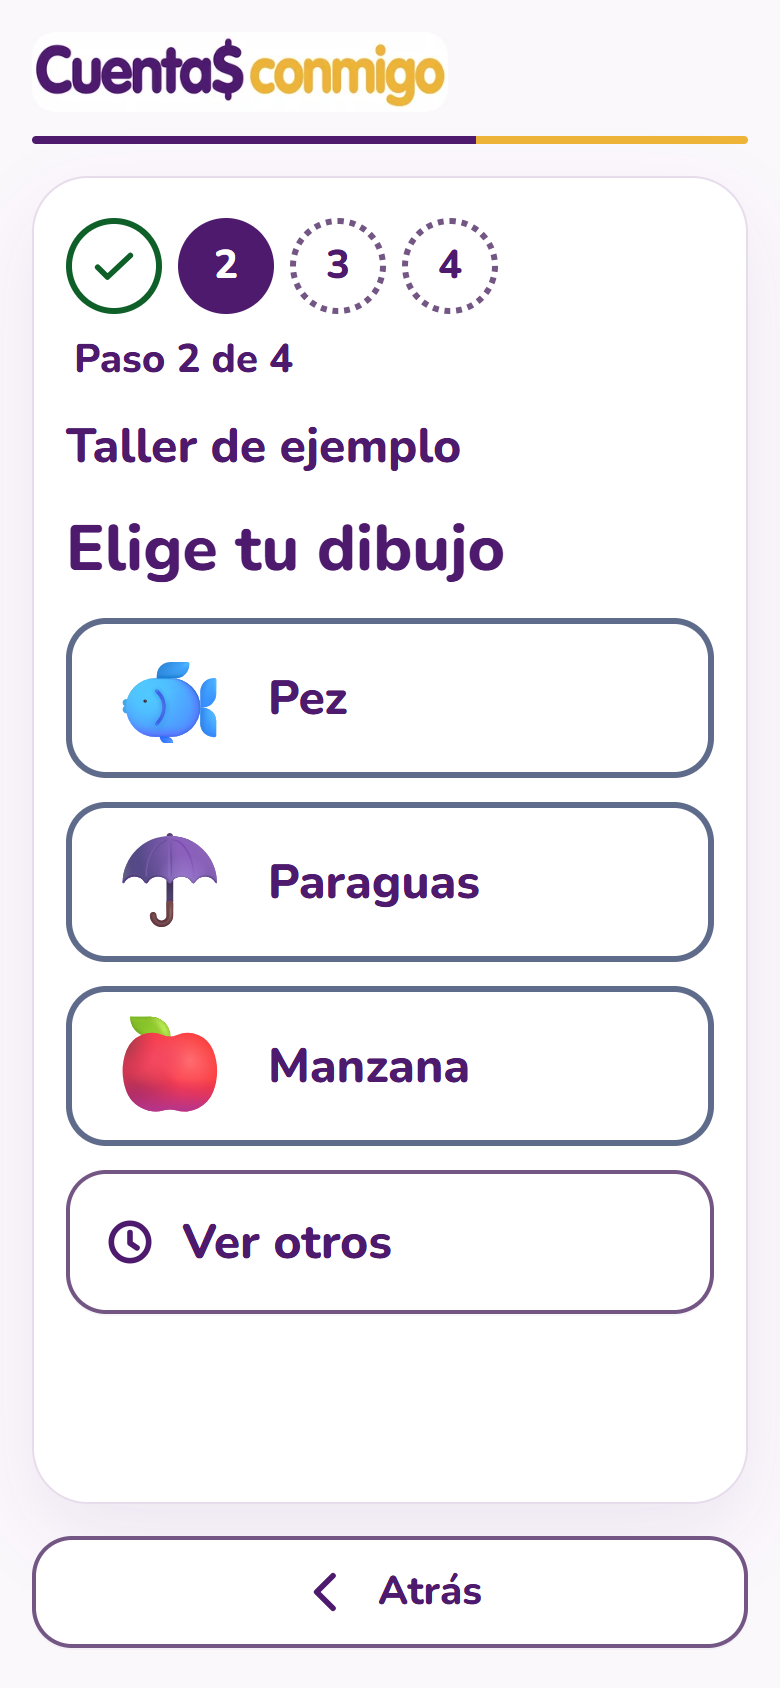
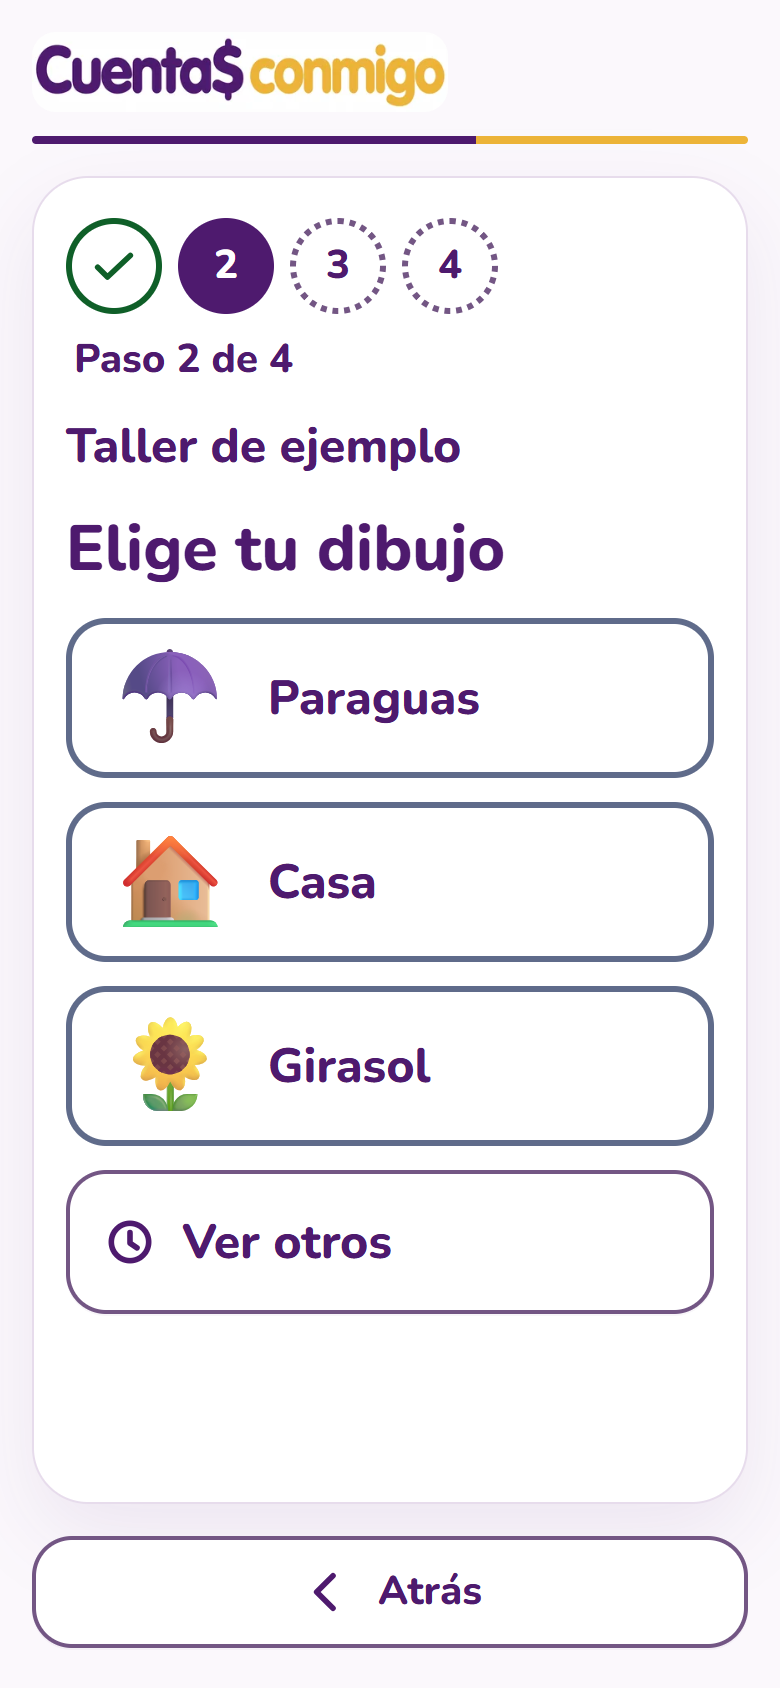
Inscripción paso 3: elegir cómo paga (yo desde mi celular o me ayuda un familiar); la ayuda es opcional

diff --git a/src/Inscripcion.tsx b/src/Inscripcion.tsx
@@ -29,7 +29,7 @@ export default function Inscripcion({ token, registerUrl, initial }: {
   token: string;
   registerUrl: string;
   /** Only for the demo harness (screenshots): start on a given step with sample values. */
-  initial?: { step: number; name?: string; tel?: string; helpers?: Helper[]; emblem?: string; pic?: 'menu' | 'pick' };
+  initial?: { pay?: 'self' | 'helper'; step: number; name?: string; tel?: string; helpers?: Helper[]; emblem?: string; pic?: 'menu' | 'pick' };
 }) {
   const [info, setInfo] = useState<Info | null>(null);
   const [step, setStep] = useState(initial?.step ?? 1);
@@ -37,6 +37,8 @@ export default function Inscripcion({ token, registerUrl, initial }: {
   const [tel, setTel] = useState(initial?.tel ?? '');
   const [helpers, setHelpers] = useState<Helper[]>(initial?.helpers ?? [{ name: '', rel: '', tel: '' }]);
   const [sendTo, setSendTo] = useState('');
+  // How the person pays: from their own phone with CoDi, or with a relative who helps. Help is optional.
+  const [payMode, setPayMode] = useState<'' | 'self' | 'helper'>(initial?.pay ?? (initial?.helpers?.some((h) => h.tel) ? 'helper' : ''));
   const [consent, setConsent] = useState(false);
   const [emblem, setEmblem] = useState(initial?.emblem ?? '');
   const [photo, setPhoto] = useState('');
@@ -84,11 +86,11 @@ export default function Inscripcion({ token, registerUrl, initial }: {
     }
   }
 
-  const cleanHelpers: Helper[] = helpers
+  const cleanHelpers: Helper[] = payMode !== 'helper' ? [] : helpers
     .map((h) => ({ name: h.name.trim().replace(/\s+/g, ' '), rel: h.rel.trim().replace(/\s+/g, ' '), tel: digits(h.tel) }))
     .filter((h) => h.name || h.rel || h.tel)
     .filter((h, i, all) => all.findIndex((x) => x.tel === h.tel) === i || !h.tel);
-  const sendTel = cleanHelpers.some((h) => h.tel === sendTo) || sendTo === digits(tel) ? sendTo : (cleanHelpers[0]?.tel ?? '');
+  const sendTel = cleanHelpers.some((h) => h.tel === sendTo) || sendTo === digits(tel) ? sendTo : (cleanHelpers[0]?.tel ?? digits(tel));
 
   function next(e?: FormEvent) {
     e?.preventDefault();
@@ -97,7 +99,8 @@ export default function Inscripcion({ token, registerUrl, initial }: {
       if (name.trim().length < 2) { setError('Escribe tu nombre.'); return; }
     } else if (step === 3) {
       if (digits(tel).length !== 10) { setError('Tu WhatsApp debe tener 10 números.'); return; }
-      if (!cleanHelpers.length) { setError('Escribe quién te ayuda a pagar.'); return; }
+      if (!payMode) { setError('Elige cómo vas a pagar.'); return; }
+      if (payMode === 'helper' && !cleanHelpers.length) { setError('Escribe quién te ayuda a pagar.'); return; }
       if (cleanHelpers.some((h) => h.name.length < 2)) { setError('Escribe el nombre de quien te ayuda.'); return; }
       if (cleanHelpers.some((h) => h.rel.length < 2)) { setError('Escribe qué es tuyo, por ejemplo: mi hija.'); return; }
       if (cleanHelpers.some((h) => h.tel.length !== 10)) { setError('Cada WhatsApp debe tener 10 números.'); return; }
@@ -262,19 +265,38 @@ export default function Inscripcion({ token, registerUrl, initial }: {
 
         {step === 3 ? (
           <form className="stack" onSubmit={next}>
-            <h1>Los WhatsApp</h1>
+            <h1>Tu WhatsApp</h1>
             <Field label="Tu WhatsApp (10 números)"><input value={tel} onChange={(e) => setTel(e.target.value)} inputMode="numeric" autoComplete="tel" required /></Field>
-            <p className="lead">¿Quién te ayuda a pagar?</p>
-            {helpers.map((h, i) => (
-              <div key={i} className="stack">
-                {helpers.length > 1 ? <p className="who-line">Persona {i + 1}</p> : null}
-                <Field label="Su nombre"><input value={h.name} onChange={(e) => setHelpers(helpers.map((x, j) => (j === i ? { ...x, name: e.target.value } : x)))} autoComplete="off" required={i === 0} /></Field>
-                <Field label="¿Qué es tuyo? (mi hija, mi vecino…)"><input value={h.rel} onChange={(e) => setHelpers(helpers.map((x, j) => (j === i ? { ...x, rel: e.target.value } : x)))} autoComplete="off" required={i === 0} /></Field>
-                <Field label="Su WhatsApp (10 números)"><input value={h.tel} onChange={(e) => setHelpers(helpers.map((x, j) => (j === i ? { ...x, tel: e.target.value } : x)))} inputMode="numeric" autoComplete="off" required={i === 0} /></Field>
-              </div>
-            ))}
+
+            <h2 className="ask">¿Cómo vas a pagar?</h2>
+            <p className="lead">Se paga con CoDi, desde la app de un banco.</p>
+            <div className="emblems">
+              <button type="button" className={payMode === 'self' ? 'emblem-btn on' : 'emblem-btn'} aria-pressed={payMode === 'self'} onClick={() => setPayMode('self')}>
+                <span className="emblem-glyph" aria-hidden="true">📱</span>
+                <span>Yo, desde mi celular{payMode === 'self' ? ' ✔ Elegido' : ''}</span>
+              </button>
+              <button type="button" className={payMode === 'helper' ? 'emblem-btn on' : 'emblem-btn'} aria-pressed={payMode === 'helper'} onClick={() => setPayMode('helper')}>
+                <span className="emblem-glyph" aria-hidden="true">👪</span>
+                <span>Me ayuda un familiar{payMode === 'helper' ? ' ✔ Elegido' : ''}</span>
+              </button>
+            </div>
+
+            {payMode === 'helper' ? (
+              <>
+                <h2 className="ask">¿Quién te ayuda a pagar?</h2>
+                <p className="lead">Escribe sus datos. Si no entiende de qué se trata, le explicaremos por WhatsApp.</p>
+                {helpers.map((h, i) => (
+                  <div key={i} className="stack plan">
+                    {helpers.length > 1 ? <p className="who-line">Persona {i + 1}</p> : null}
+                    <Field label="Su nombre"><input value={h.name} onChange={(e) => setHelpers(helpers.map((x, j) => (j === i ? { ...x, name: e.target.value } : x)))} autoComplete="off" /></Field>
+                    <Field label="¿Qué es tuyo? (mi hija, mi vecino…)"><input value={h.rel} onChange={(e) => setHelpers(helpers.map((x, j) => (j === i ? { ...x, rel: e.target.value } : x)))} autoComplete="off" /></Field>
+                    <Field label="Su WhatsApp (10 números)"><input value={h.tel} onChange={(e) => setHelpers(helpers.map((x, j) => (j === i ? { ...x, tel: e.target.value } : x)))} inputMode="numeric" autoComplete="off" /></Field>
+                  </div>
+                ))}
+                {helpers.length < 3 ? <Choice icon={<IcoPeople />} label="Agregar a otra persona" onClick={() => setHelpers([...helpers, { name: '', rel: '', tel: '' }])} /> : null}
+              </>
+            ) : null}
             <Choice primary type="submit" icon={<IcoPhone />} label="Siguiente" />
-            {helpers.length < 3 ? <Choice icon={<IcoPeople />} label="Agregar a otra persona" onClick={() => setHelpers([...helpers, { name: '', rel: '', tel: '' }])} /> : null}
           </form>
         ) : null}
 
@@ -285,10 +307,12 @@ export default function Inscripcion({ token, registerUrl, initial }: {
               <p><strong>Nombre:</strong> {name.trim()}</p>
               <p><strong>Tu imagen:</strong> {photo ? 'tu foto' : `${emblemOf(emblem)?.glyph ?? ''} ${emblemOf(emblem)?.name ?? ''}`}</p>
               <p><strong>Tu WhatsApp:</strong> {fmtTel(digits(tel))}</p>
+              <p><strong>Cómo pagas:</strong> {cleanHelpers.length ? 'con ayuda' : 'tú, desde tu celular'}</p>
               {cleanHelpers.map((h) => (
                 <p key={h.tel}><strong>{h.name} ({h.rel}):</strong> {fmtTel(h.tel)}</p>
               ))}
             </div>
+            {cleanHelpers.length ? (
             <fieldset className="stack choose">
               <legend className="who-line">¿A quién le mandamos tu código de pago y tu comprobante?</legend>
               {[...cleanHelpers.map((h) => ({ tel: h.tel, text: `${h.name} (${h.rel})` })), { tel: digits(tel), text: 'A mí, a mi WhatsApp' }].map((o) => (
@@ -298,6 +322,7 @@ export default function Inscripcion({ token, registerUrl, initial }: {
                 </label>
               ))}
             </fieldset>
+            ) : null}
             <label className="check">
               <input type="checkbox" checked={consent} onChange={(e) => setConsent(e.target.checked)} />
               <span>Acepto que estos teléfonos se compartan con quien da el taller.</span>

diff --git a/demo/main.tsx b/demo/main.tsx
@@ -106,7 +106,8 @@ const signupSteps: Record<string, { step: number; name?: string; tel?: string; h
   signup1: { step: 1 },
   signup2: { step: 2, name: 'María Hernández' },
   'signup2-pick': { step: 2, name: 'María Hernández', pic: 'pick' },
-  signup3: { step: 3, name: 'María Hernández', emblem: 'girasol', tel: '5500000009', helpers: [{ name: 'Ana Hernández', rel: 'mi hija', tel: '' }] },
+  'signup3-choose': { step: 3, name: 'María Hernández', emblem: 'girasol', tel: '5500000009' },
+  signup3: { step: 3, name: 'María Hernández', emblem: 'girasol', tel: '5500000009', pay: 'helper', helpers: [{ name: 'Ana Hernández', rel: 'mi hija', tel: '5500000019' }] },
   signup4: { step: 4, name: 'María Hernández', emblem: 'girasol', tel: '5500000009', helpers: [{ name: 'Ana Hernández', rel: 'mi hija', tel: '5500000019' }, { name: 'Luis Pérez', rel: 'mi vecino', tel: '5500000029' }] },
   'signup-done': { step: 4, name: 'María Hernández', emblem: 'girasol', tel: '5500000009', helpers: [{ name: 'Ana Hernández', rel: 'mi hija', tel: '5500000019' }] },
   'signup-full': { step: 1 },

diff --git a/amplify/functions/register/handler.ts b/amplify/functions/register/handler.ts
@@ -104,7 +104,7 @@ export const handler: LambdaFunctionURLHandler = async (event) => {
     const helpers = helperList.map((h) => h.tel);
     const sendTo = typeof body.sendTo === 'string' ? body.sendTo.replace(/\D/g, '') : '';
     if (
-      name.length < 2 || name.length > 60 || !TEL10.test(tel) || helperList.length < 1 || helperList.length > 3 ||
+      name.length < 2 || name.length > 60 || !TEL10.test(tel) || helperList.length > 3 ||
       !helperList.every((h) => TEL10.test(h.tel) && h.name.length >= 2 && h.rel.length >= 2) ||
       (sendTo !== '' && sendTo !== tel && !helpers.includes(sendTo)) || body.consent !== true
     ) {
@@ -126,7 +126,7 @@ export const handler: LambdaFunctionURLHandler = async (event) => {
       helpers,
       helperNames: helperList.map((h) => h.name),
       helperRels: helperList.map((h) => h.rel),
-      sendTo: sendTo || helpers[0],
+      sendTo: sendTo || helpers[0] || tel, // with no helper, codes go to the person
       projectId: project.id,
       consentShared: true,
       ...(photo ? { photo, photoConsent: true } : { emblem }),

diff --git a/src/index.css b/src/index.css
@@ -287,3 +287,6 @@ a.choice { text-decoration: none; box-sizing: border-box; }
 .emblem-btn { display: flex; align-items: center; gap: 16px; min-height: 5rem; padding: 8px 16px; background: #fff; border: 3px solid #5F6B8A; border-radius: 20px; font: inherit; font-size: 1.5rem; font-weight: 800; color: #4E1A6E; cursor: pointer; text-align: left; }
 .emblem-btn .emblem-glyph { font-size: 3rem; line-height: 1; }
 .choose { border: 0; padding: 0; margin: 0; min-width: 0; }
+
+.ask { margin: 8px 0 0; font-size: 1.75rem; line-height: 1.3; font-weight: 800; }
+.emblem-btn.on { background: #EFE8F5; border-color: #4E1A6E; border-width: 5px; }

diff --git a/README.md b/README.md
@@ -44,7 +44,7 @@ Capturas hechas con el modo de demostración (datos inventados, sin servidor), a
 | ![](docs/pantallas/01-proyectos.png)<br>**1. Tus proyectos** | ![](docs/pantallas/02-inicio-del-proyecto.png)<br>**2. Inicio de un proyecto** | ![](docs/pantallas/03-quien-paga.png)<br>**3. A quién cobrar** |
 | ![](docs/pantallas/04-cobros-de-una-persona.png)<br>**4. Cobros de una persona** | ![](docs/pantallas/05-como-cobrar.png)<br>**5. Cómo cobrar** | ![](docs/pantallas/06-codigo-qr.png)<br>**6. Código QR de CoDi** |
 | ![](docs/pantallas/07-mandar-el-codigo.png)<br>**7. Mandar el código como imagen** | ![](docs/pantallas/08-esperando-el-pago.png)<br>**8. Esperando el pago** | ![](docs/pantallas/09-ya-pago.png)<br>**9. Ya pagó** |
-| ![](docs/pantallas/10-comprobante.png)<br>**10. Comprobante** | ![](docs/pantallas/11-nuevo-cobro.png)<br>**11. Nuevo cobro** | ![](docs/pantallas/12-agregar-persona.png)<br>**12. Agregar persona** |
+| ![](docs/pantallas/10-comprobante.png)<br>**10. Comprobante** | ![](docs/pantallas/11-nuevo-cobro.png)<br>**11. Cobro extraordinario** | ![](docs/pantallas/12-agregar-persona.png)<br>**12. Agregar persona** |
 
 ### Más opciones, personas y reporte
 
@@ -66,7 +66,8 @@ Capturas hechas con el modo de demostración (datos inventados, sin servidor), a
 | | | |
 | --- | --- | --- |
 | ![](docs/pantallas/28-inscripcion-paso-1.png)<br>**28. Inscripción, paso 1: nombre** | ![](docs/pantallas/29-inscripcion-paso-2-imagen.png)<br>**29. Paso 2: su imagen** | ![](docs/pantallas/30-inscripcion-elegir-dibujo.png)<br>**30. Elegir un dibujo** |
-| ![](docs/pantallas/31-inscripcion-paso-3.png)<br>**31. Paso 3: WhatsApp y quién ayuda** | ![](docs/pantallas/32-inscripcion-paso-4.png)<br>**32. Paso 4: revisar y a quién mandar** | ![](docs/pantallas/33-inscripcion-enviada.png)<br>**33. Inscripción enviada** |
+| ![](docs/pantallas/31-inscripcion-paso-3-como-pagas.png)<br>**31. Paso 3: su WhatsApp y cómo paga** | ![](docs/pantallas/32-inscripcion-paso-3.png)<br>**32. Paso 3: con ayuda de un familiar** | ![](docs/pantallas/33-inscripcion-paso-4.png)<br>**33. Paso 4: revisar y a quién mandar** |
+| ![](docs/pantallas/34-inscripcion-enviada.png)<br>**34. Inscripción enviada** |  |  |
 
 Cada pantalla tiene un solo botón principal, máximo 4 opciones, texto grande y el estado siempre con ícono, palabras y borde (nada se dice solo con color).
 
@@ -92,7 +93,7 @@ Cada cobro manda a Pey el `bankAccountId` de su cuenta, así una sola llave de P
 ## Lugares e inscripción por QR
 
 1. En **Lugares → Ajustes** quien cobra pone el nombre del taller, cuántos lugares hay, cuántos días se aparta uno (5 por defecto) y los **cobros** del proyecto (hasta 2). El **Cobro 1** es el inicial (al pagarlo, el lugar queda confirmado) y un botón **"Añadir otro cobro"** agrega el segundo. Cada cobro lleva nombre, monto, cuenta que recibe y se marca como **una sola vez** o **cada mes**; si es mensual se indica cuántos meses dura y desde qué mes. Ejemplo del caso de estudio: **Cobro 1: Inscripción $40, una sola vez**, y **Cobro 2: Mensualidad $130, cada mes, 10 meses desde agosto** (termina en mayo, el fin del ciclo escolar).
-2. **Código para inscribir** muestra un QR que abre una página pública (sin cuenta) en 4 pasos: nombre, **imagen que la identifica**, WhatsApp propio y de **una** persona que le ayuda a pagar (con su **nombre y qué es suya**, por ejemplo "mi hija"; un botón permite agregar hasta 3), y revisar. En el último paso la persona **elige a quién quiere que le mandemos su código de pago y su comprobante** entre las que registró, y da su consentimiento.
+2. **Código para inscribir** muestra un QR que abre una página pública (sin cuenta) en 4 pasos: nombre, **imagen que la identifica**, WhatsApp propio y **cómo va a pagar**: **"Yo, desde mi celular"** (con CoDi, en la app de su banco) o **"Me ayuda un familiar"**. La ayuda es opcional: solo si elige al familiar se despliegan los datos de quien ayuda (**nombre, qué es suya**, por ejemplo "mi hija", y WhatsApp; un botón permite agregar hasta 3), y revisar. En el último paso la persona **elige a quién quiere que le mandemos su código de pago y su comprobante** entre las que registró, y da su consentimiento.
 3. **Imagen que la identifica:** un **dibujo** de un banco de 28 (con su nombre escrito, y nunca uno que ya tenga otra persona con lugar) o **su foto**, con casilla de autorización obligatoria. La foto se reduce a unos 320 px y se guarda en su registro.
 4. La inscripción **solo registra**. No se manda ningún cobro ni mensaje hasta que quien cobra **apruebe**. Si el taller está lleno, la persona queda en lista de espera.
 5. Tras aprobar, la ficha ofrece un botón por cada cobro que le toca: **"Cobrarle $40"** (la inscripción, una sola vez, y deja de ofrecerse cuando ya se cobró) y **"Cobrarle $130"** (la mensualidad, "mes 4 de 10"). Fuera del ciclo, por ejemplo antes de agosto o después de mayo, la mensualidad no se ofrece.
